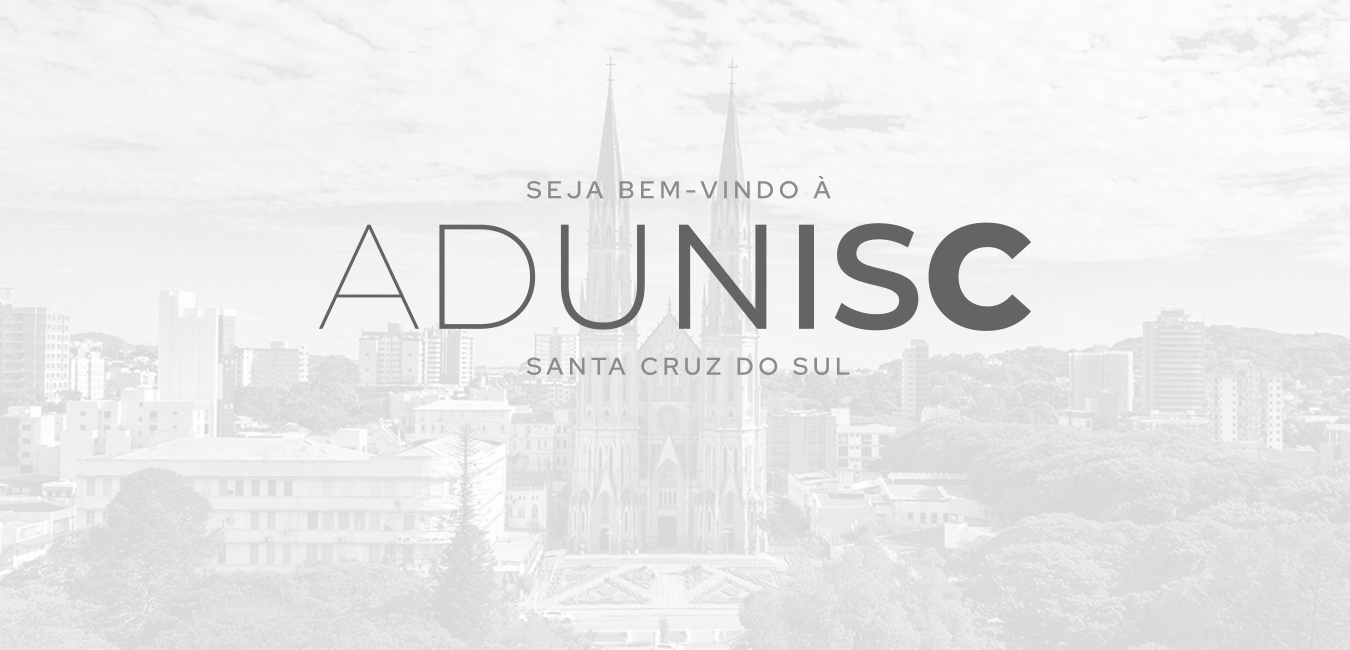
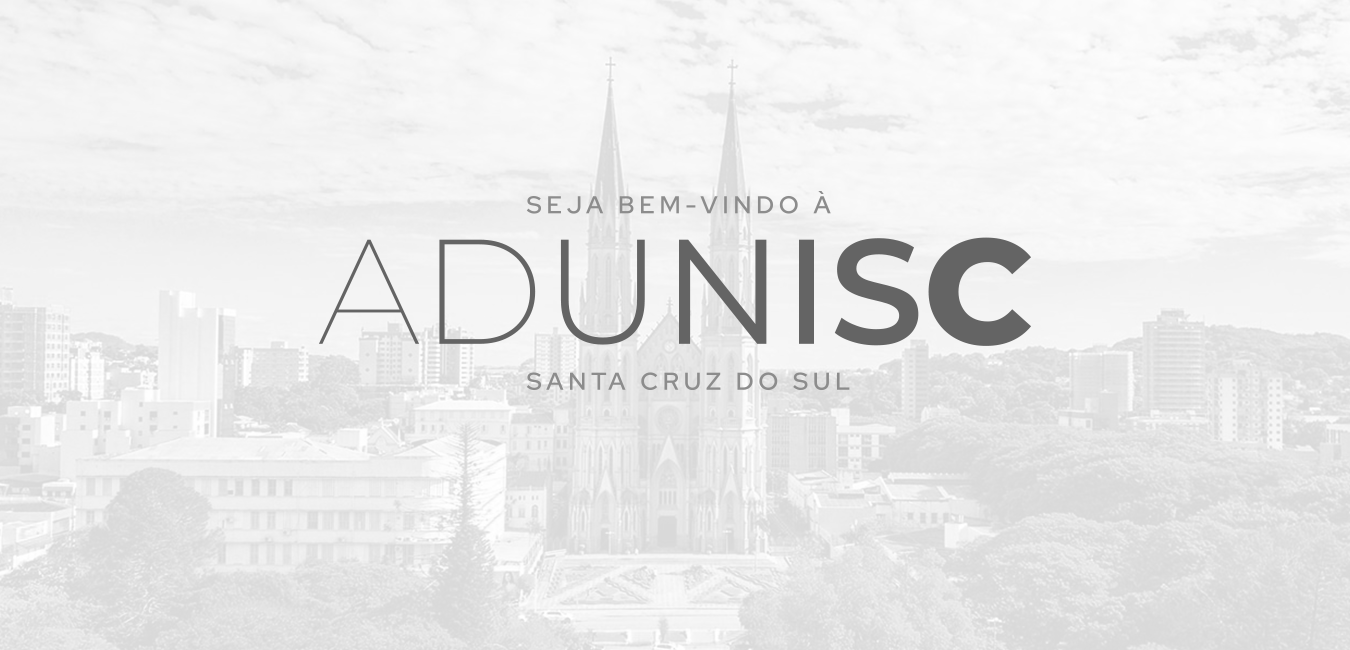
V3.0 PPT

Changed region(s): [[0.2178, 0.2769, 0.7778, 0.6154]]

diff --git a/index.html b/index.html
@@ -61,15 +61,14 @@
 
                 <div class="about__container bd-grid">
                     <div class="about__img">
-                        <h1>
-                            Nossa 
-                            <p>
-                                História
-                            </p>
-                        </h1>
+                        <p class="sobre_cima">
+                            NOSSA 
+                        </p>
+                            <h1 class="sobre_baixo">
+                                HISTÓRIA
+                            </h1>
                        <!--  <img src="img/about.jpg" alt=""> -->
                     </div>
-                    
                     <div>
                         <p class="about__text">Lorem, ipsum dolor sit amet consectetur adipisicing elit. Voluptate cum expedita quo culpa tempora, assumenda, quis fugiat ut voluptates soluta, aut earum nemo recusandae cumque perferendis! Recusandae alias accusamus atque.</p> 
                     </div>                                   
@@ -78,19 +77,21 @@
   
             <!--===== WORK =====-->
             <section class="work section" id="work">
-                <h2 class="section-title">Acontecimentos</h2>
-                <div class="work__container bd-grid">
+                <h2 class="section-title-maior">Acontecimentos</h2>
+                <div class="work__container bd-grid leftzinho">
                     <div class="work__images-left">
                         <a href="" class="">
-                            <img src="img/work1.jpg" alt="">
+                            <div>
+                            <img src="img/work1.png" alt="">
+                            </div>
                         </a>
                         <a href="" class="">
-                            <img src="img/work2.jpg" alt="">
+                            <img src="img/work2.png" alt="">
                         </a>
                     </div>
                     <div class="work__image-right">
                         <a href="" class="work__img-tall">
-                            <img src="img/work3.jpg" alt="">
+                            <img src="img/work3.png" alt="">
                         </a>
                     </div>
                 </div>
@@ -98,17 +99,16 @@
 
             <!--===== WORK =====-->
             <section class="work section" id="work">
-                <h2 class="section-title">Eventos Realizados</h2>
-
+                <h2 class="section-title-maior">Eventos Realizados</h2>
                 <div class="work__container bd-grid">
                     <a href="" class="work__img">
-                        <img src="img/work1.jpg" alt="">
+                        <img src="img/work1.png" alt="">
                     </a>
                     <a href="" class="work__img">
-                        <img src="img/work2.jpg" alt="">
+                        <img src="img/work4.jpg" alt="">
                     </a>
                     <a href="" class="work__img">
-                        <img src="img/work3.jpg" alt="">
+                        <img src="img/work4.jpg" alt="">
                     </a>
                     <a href="" class="work__img">
                         <img src="img/work4.jpg" alt="">
@@ -124,15 +124,15 @@
 
             <!--===== CONTACT =====-->
             <section class="contact section" id="contact">
-                <h2 class="section-title">Agende seu Evento</h2>
+                <h2 class="section-title-maior">Agende seu Evento</h2>
 
                 <div class="contact__container bd-grid">
-                    <img src="img/agenda.png" alt="">
+                    <img src="img/agenda.png" alt="" class="agenda">
                     <form action="" class="contact__form">
-                        <input type="text" placeholder="Nome" class="contact__input">
-                        <input type="mail" placeholder="Telefone" class="contact__input">
-                        <input type="mail" placeholder="E-mail" class="contact__input">
-                        <input type="mail" placeholder="CPF" class="contact__input">
+                        <input type="text" placeholder="Nome:" class="contact__input">
+                        <input type="mail" placeholder="Telefone:" class="contact__input">
+                        <input type="mail" placeholder="E-mail:" class="contact__input">
+                        <input type="mail" placeholder="CPF:" class="contact__input">
                         <input type="button" value="Agendar" class="contact__button button">
                     </form>
                 </div>
@@ -145,7 +145,7 @@
             <div class="footer__social">
                 <a href="#" class="footer__icon"><i class='bx bxl-facebook' ></i></a>
                 <a href="#" class="footer__icon"><i class='bx bxl-instagram' ></i></a>
-                <a href="#" class="footer__icon"><i class='bx bxl-twitter' ></i></a>
+                <a href="#" class="footer__icon"><i class='bx bxl-whatsapp' ></i></a>
             </div>
             
             <p class="footer__copy">&#169; Quidittas. Todos direitos reservados</p>

diff --git a/css/styles.css b/css/styles.css
@@ -9,15 +9,15 @@
   /*===== Colores =====*/
   /*Purple 260 - Red 355 - Blue 224 - Pink 340*/
   /* HSL color mode */
-  --hue-color: 224;
-  --first-color: hsl(var(--hue-color), 89%, 60%);
-  --second-color: #646464;
+  --hue-color: 0;
+  --first-color: hsl(var(--hue-color), 0%, 35%);
+  --second-color: #706f6f;
   /*===== Fuente y tipografia =====*/
-  --body-font: 'Red Hot Display', sans-serif;
+  --body-font: 'Red Hat Display', sans-serif;
   --big-font-size: 2rem;
   --h2-font-size: 1.25rem;
   --normal-font-size: .938rem;
-  --smaller-font-size: .75rem;
+  --smaller-font-size: 1.75rem;
   /*===== Margenes =====*/
   --mb-2: 1rem;
   --mb-4: 2rem;
@@ -84,6 +84,27 @@ img {
 }
 
 .section-title::after {
+  position: absolute;
+  content: '';
+  width: 64px;
+  height: 0.18rem;
+  left: 0;
+  right: 0;
+  margin: auto;
+  top: 2rem;
+  background-color: var(--first-color);
+}
+
+.section-title-maior {
+  position: relative;
+  font-size: var(--h2-font-size);
+  color: var(--first-color);
+  margin-top: var(--mb-2);
+  margin-bottom: var(--mb-4);
+  text-align: center;
+}
+
+.section-title-maior::after {
   position: absolute;
   content: '';
   width: 64px;
@@ -228,7 +249,7 @@ img {
   position: absolute;
   right: 0;
   bottom: 0;
-  width: 260px;
+  width: auto;
 }
 
 .home__blob {
@@ -240,7 +261,7 @@ img {
 }
 
 .banner-wrapper {
-  position: relative;
+  position: center;
   width: 100%;
 }
 
@@ -270,6 +291,19 @@ img {
 }
 
 /* ===== ABOUT =====*/
+.sobre_cima {
+  font-size: 2.3rem;
+  width: 70%; /* Ajuste a largura conforme necessário */
+  line-height: 0.2; /* Ajuste a altura da linha conforme necessário */
+  font-weight: 500;
+}
+
+.sobre_baixo {
+  font-size: 3.5rem;
+  width: 100%; /* Ajuste a largura conforme necessário */
+  line-height: 1.3; /* Ajuste a altura da linha conforme necessário */
+}
+
 .about__container {
   row-gap: 2rem;
   text-align: center;
@@ -286,6 +320,11 @@ img {
 .about__img img {
   width: 200px;
   border-radius: .5rem;
+}
+
+.about__text {
+  font-weight: bold;
+  font-size: 18.5px;
 }
 
 /* ===== SKILLS =====*/
@@ -402,17 +441,27 @@ img {
   width: 100%;
   font-size: var(--normal-font-size);
   font-weight: var(--font-semi);
-  padding: 1rem;
-  border-radius: .5rem;
-  border: 1.5px solid var(--second-color);
+  padding: 0.4rem;
+  color: #fff;
+  background-color: #706f6f;
+  border: 1px solid var(--second-color);
   outline: none;
-  margin-bottom: var(--mb-4);
+  margin-bottom: 0.6rem;
+}
+
+.contact__input::placeholder {
+  color: #fff;
+  font-weight: 500;
 }
 
 .contact__button {
   display: block;
   border: none;
   outline: none;
+  background-color: #706f6f;
+  padding: 0.4rem;
+  width: 7.5rem;
+  color: #fff;
   font-size: var(--normal-font-size);
   cursor: pointer;
   margin-left: auto;
@@ -450,22 +499,29 @@ img {
 .work__images-left {
   display: flex;
   flex-direction: column;
-  gap: 20px; /* Add 10px gap between the images */
-  height: 500px;
-  width: 361px;
+  gap: 31px; /* Add 10px gap between the images */
+  height: 189px;
+  width: 429px;
 }
 
 .work__image-right {
   display: flex;
   flex-direction: column;
-  gap: 20px; /* Add 10px gap between the images */
+  gap: 31px; /* Add 10px gap between the images */
   justify-content: center;
   align-items: center;
 }
 
+.work__image-right img {
+  width: 100%; /* Ajuste o tamanho da imagem conforme necessário */
+  max-width: none; /* Desativa a limitação máxima de largura */
+  height: auto; /* Mantém a proporção da imagem */
+}
+
+
 .work__img-tall img {
-  height: 500px; /* Adjust the height as needed */
-  width: 350px;
+  height: 507px; /* Adjust the height as needed */
+  width: 339px;
 }
 
 /* ===== MEDIA QUERIES=====*/
@@ -535,6 +591,13 @@ img {
     width: 80px;
     top: 3rem;
   }
+  .section-title-maior {
+    margin-bottom: var(--mb-6);
+  }
+  .section-title-maior::after {
+    width: 200px;
+    top: 3rem;
+  }
   .nav {
     height: calc(var(--header-height) + 1.5rem);
   }
@@ -560,7 +623,7 @@ img {
     bottom: 10%;
   }
   .about__container {
-    padding-top: 2rem;
+    padding-top: 1rem;
   }
   .about__img img {
     width: 300px;
@@ -574,6 +637,7 @@ img {
   .work__container {
     grid-template-columns: repeat(3, 1fr);
     column-gap: 2rem;
+    padding-left: 10%;
   }
 }
 
@@ -587,5 +651,8 @@ img {
   }
   .home__img {
     width: 450px;
+  }
+  .agenda {
+    padding-left: 6rem;
   }
 }
